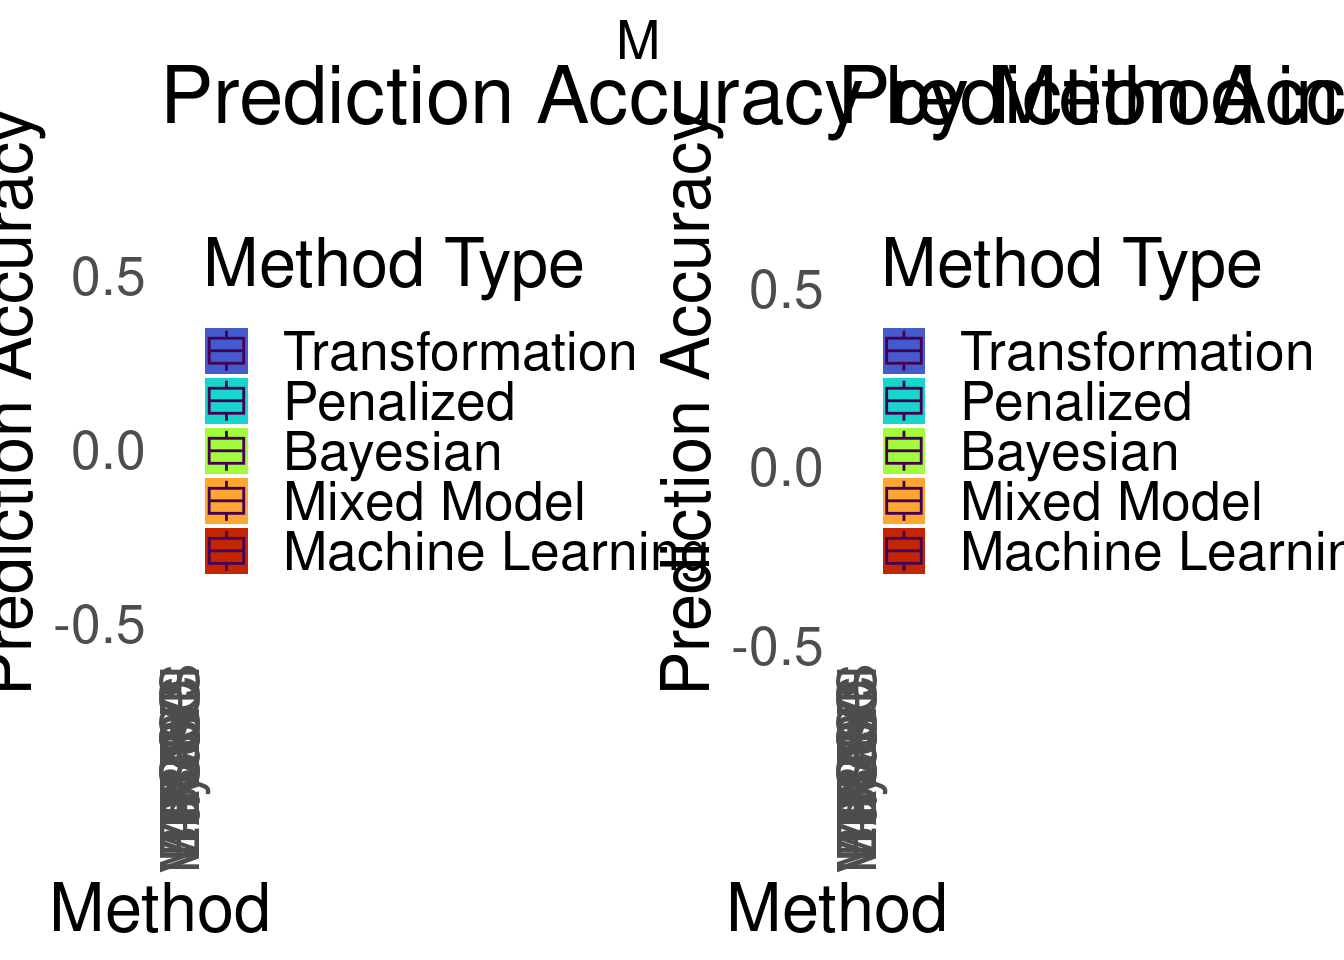
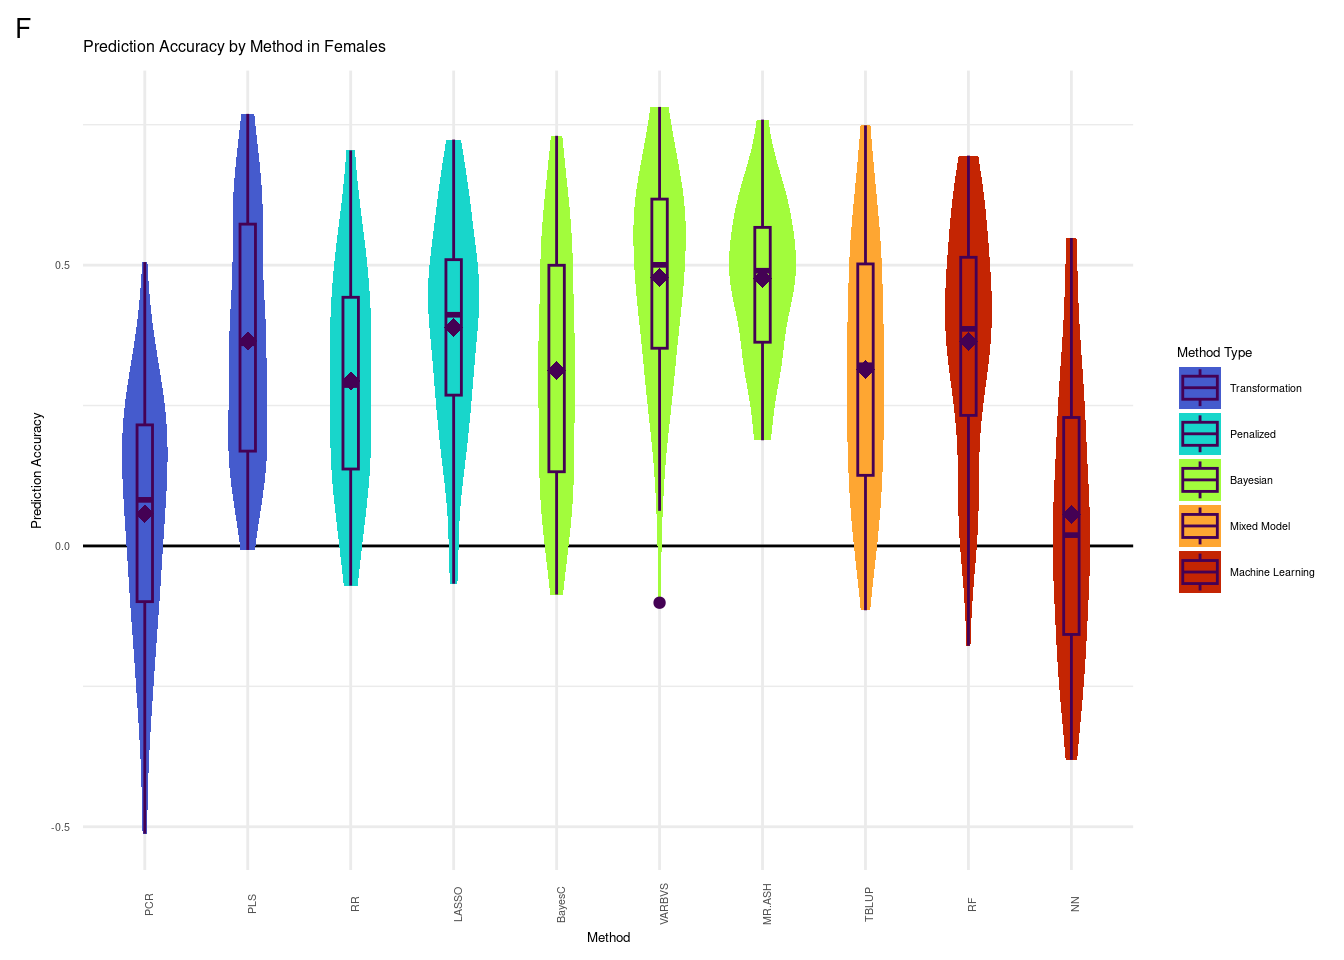
Build site.

Changed region(s): [[0.0, 0.0312, 1.0, 0.9688], [0.4375, 0.9688, 0.4688, 1.0]]

diff --git a/docs/plots.html b/docs/plots.html
@@ -485,16 +485,16 @@ This reproducible <a href="https://rmarkdown.rstudio.com">R Markdown</a> analysi
 <div class="panel panel-default">
 <div class="panel-heading">
 <p class="panel-title">
-<a data-toggle="collapse" data-parent="#workflowr-checks" href="#strongRepositoryversionstrongahrefhttpsgithubcomnklimkodgrpstarvetreeb029cc30c7ac32fbfe55c20e3d7b16fbb29d201ftargetblankb029cc3a"> <span class="glyphicon glyphicon-ok text-success" aria-hidden="true"></span> <strong>Repository version:</strong> <a href="https://github.com/nklimko/dgrp-starve/tree/b029cc30c7ac32fbfe55c20e3d7b16fbb29d201f" target="_blank">b029cc3</a> </a>
+<a data-toggle="collapse" data-parent="#workflowr-checks" href="#strongRepositoryversionstrongahrefhttpsgithubcomnklimkodgrpstarvetree96362fae9bb3ba3de22d8b1527845ea7f9c86935targetblank96362faa"> <span class="glyphicon glyphicon-ok text-success" aria-hidden="true"></span> <strong>Repository version:</strong> <a href="https://github.com/nklimko/dgrp-starve/tree/96362fae9bb3ba3de22d8b1527845ea7f9c86935" target="_blank">96362fa</a> </a>
 </p>
 </div>
[2 lines of base64/hex data omitted]
 <div class="panel-body">
 <p>
 Great! You are using Git for version control. Tracking code development and connecting the code version to the results is critical for reproducibility.
 </p>
 <p>
-The results in this page were generated with repository version <a href="https://github.com/nklimko/dgrp-starve/tree/b029cc30c7ac32fbfe55c20e3d7b16fbb29d201f" target="_blank">b029cc3</a>. See the <em>Past versions</em> tab to see a history of the changes made to the R Markdown and HTML files.
+The results in this page were generated with repository version <a href="https://github.com/nklimko/dgrp-starve/tree/96362fae9bb3ba3de22d8b1527845ea7f9c86935" target="_blank">96362fa</a>. See the <em>Past versions</em> tab to see a history of the changes made to the R Markdown and HTML files.
 </p>
 <p>
 Note that you need to be careful to ensure that all relevant files for the analysis have been committed to Git prior to generating the results (you can use <code>wflow_publish</code> or <code>wflow_git_commit</code>). workflowr only checks the R Markdown file, but you know if there are other scripts or data files that it depends on. Below is the status of the Git repository when the results were generated:
@@ -502,6 +502,7 @@ Note that you need to be careful to ensure that all relevant files for the analy
 <pre><code>
 Ignored files:
     Ignored:    .snakemake/
+    Ignored:    analysis/figure/
     Ignored:    code/OLD/PCA/four-comp.76979.err
     Ignored:    code/OLD/PCA/four-comp.76979.out
     Ignored:    code/OLD/PCA/snpGene.77509.err
@@ -607,6 +608,40 @@ Message
 Rmd
 </td>
 <td>
+<a href="https://github.com/nklimko/dgrp-starve/blob/96362fae9bb3ba3de22d8b1527845ea7f9c86935/analysis/plots.Rmd" target="_blank">96362fa</a>
+</td>
+<td>
+nklimko
+</td>
+<td>
+2024-03-26
+</td>
+<td>
+wflow_publish(“analysis/plots.Rmd”)
+</td>
+</tr>
+<tr>
+<td>
+html
+</td>
+<td>
+<a href="https://rawcdn.githack.com/nklimko/dgrp-starve/458751187b0e287239c3bdc85285fecabd4ec81f/docs/plots.html" target="_blank">4587511</a>
+</td>
+<td>
+nklimko
+</td>
+<td>
+2024-03-26
+</td>
+<td>
+Build site.
+</td>
+</tr>
+<tr>
+<td>
+Rmd
+</td>
+<td>
 <a href="https://github.com/nklimko/dgrp-starve/blob/b029cc30c7ac32fbfe55c20e3d7b16fbb29d201f/analysis/plots.Rmd" target="_blank">b029cc3</a>
 </td>
 <td>
@@ -637,8 +672,8 @@ ggMake2 &lt;- function(data, sex, yint, psize, custom.title, custom.Xlab, custom
     geom_boxplot(color=&#39;#440154FF&#39;, width = 0.15) +
     theme_minimal()+
     theme(axis.text.x = element_text(angle = 90),
-          text=element_text(size=25),
-          plot.tag = element_text(size=20)) +
+          text=element_text(size=5),
+          plot.tag = element_text(size=10)) +
     scale_fill_viridis(begin = scaleStart, end = scaleEnd, discrete=TRUE, option=&#39;turbo&#39;,
                        labels=c(&#39;Transformation&#39;, &#39;Penalized&#39;, &#39;Bayesian&#39;, &#39;Mixed Model&#39;, &#39;Machine Learning&#39;))+#false discrete for number ranked layover, true normally
     stat_summary(fun=mean, color=&#39;#440154FF&#39;, geom=&#39;point&#39;, 
@@ -654,8 +689,8 @@ ggMakeVar &lt;- function(data, sex, yint, psize, custom.title, custom.Xlab, cust
     geom_boxplot(color=&#39;#440154FF&#39;, width = 0.15) +
     theme_minimal()+
     theme(axis.text.x = element_text(angle = 90),
-          text=element_text(size=25),
-          plot.tag = element_text(size=20)) +
+          text=element_text(size=5),
+          plot.tag = element_text(size=10)) +
     scale_fill_viridis(begin = scaleStart, end = scaleEnd, discrete=TRUE, option=&#39;turbo&#39;,
                        labels=c(&#39;Shrinkage&#39;, &#39;Shrinkage + Selection&#39;))+#false discrete for number ranked layover, true normally
     stat_summary(fun=mean, color=&#39;#440154FF&#39;, geom=&#39;point&#39;, 
@@ -668,22 +703,100 @@ gg[[1]] &lt;- ggMake2(dataF, &#39;F&#39;, 0, 1, &#39;Prediction Accuracy by Meth
 
 gg[[2]] &lt;- ggMake2(dataM, &#39;M&#39;, 0, 1, &#39;Prediction Accuracy by Method in Males&#39;, &#39;Method&#39;, &#39;Prediction Accuracy&#39;, 0.1, 0.9)
 
-#gg[[3]] &lt;- 
-gg[[3]] &lt;- ggMakeVar(dataF, &#39;F&#39;, 0, 1, &#39;Prediction Accuracy by Method in Females&#39;, &#39;Method&#39;, &#39;Prediction Accuracy&#39;, 0.2, 0.8)
+gg[[3]] &lt;- ggMakeVar(dataF, &#39;F&#39;, 0, 1, &#39;Prediction Accuracy by Variable Selection in Females&#39;, &#39;Method&#39;, &#39;Prediction Accuracy&#39;, 0.2, 0.8)
 
-gg[[4]] &lt;- ggMakeVar(dataM, &#39;M&#39;, 0, 1, &#39;Prediction Accuracy by Method in Males&#39;, &#39;Method&#39;, &#39;Prediction Accuracy&#39;, 0.2, 0.8)</code></pre>
+gg[[4]] &lt;- ggMakeVar(dataM, &#39;M&#39;, 0, 1, &#39;Prediction Accuracy by Variable Selection in Males&#39;, &#39;Method&#39;, &#39;Prediction Accuracy&#39;, 0.2, 0.8)</code></pre>
 <div id="rundown" class="section level3">
 <h3>Rundown</h3>
 </div>
 <div id="updated-prediction-accuracy-plots" class="section level3">
 <h3>Updated Prediction Accuracy Plots</h3>
-<pre class="r"><code>plot_grid(gg[[1]], gg[[2]], ncol = 2)</code></pre>
+<pre class="r"><code>plot_grid(gg[[1]], ncol = 1)</code></pre>
 <p><img src="figure/plots.Rmd/allData-1.png" width="672" style="display: block; margin: auto;" /></p>
+<p>
+<button type="button" class="btn btn-default btn-xs btn-workflowr btn-workflowr-fig" data-toggle="collapse" data-target="#fig-allData-1">
+Past versions of allData-1.png
+</button>
+</p>
+<div id="fig-allData-1" class="collapse">
+<div class="table-responsive">
+<table class="table table-condensed table-hover">
+<thead>
+<tr>
+<th>
+Version
+</th>
+<th>
+Author
+</th>
+<th>
+Date
+</th>
+</tr>
+</thead>
+<tbody>
+<tr>
+<td>
+<a href="https://github.com/nklimko/dgrp-starve/blob/458751187b0e287239c3bdc85285fecabd4ec81f/docs/figure/plots.Rmd/allData-1.png" target="_blank">4587511</a>
+</td>
+<td>
+nklimko
+</td>
+<td>
+2024-03-26
+</td>
+</tr>
+</tbody>
+</table>
+</div>
+</div>
+<pre class="r"><code>plot_grid(gg[[2]], ncol = 1)</code></pre>
+<p><img src="figure/plots.Rmd/allData-2.png" width="672" style="display: block; margin: auto;" /></p>
+<p>The 2 plots above are updated versions of the original</p>
 </div>
 <div id="variable-selection-marking" class="section level3">
 <h3>Variable Selection Marking</h3>
-<pre class="r"><code>plot_grid(gg[[3]],gg[[4]], ncol=2)</code></pre>
+<pre class="r"><code>plot_grid(gg[[3]], ncol = 1)</code></pre>
 <p><img src="figure/plots.Rmd/fData-1.png" width="672" style="display: block; margin: auto;" /></p>
+<p>
+<button type="button" class="btn btn-default btn-xs btn-workflowr btn-workflowr-fig" data-toggle="collapse" data-target="#fig-fData-1">
+Past versions of fData-1.png
+</button>
+</p>
+<div id="fig-fData-1" class="collapse">
+<div class="table-responsive">
+<table class="table table-condensed table-hover">
+<thead>
+<tr>
+<th>
+Version
+</th>
+<th>
+Author
+</th>
+<th>
+Date
+</th>
+</tr>
+</thead>
+<tbody>
+<tr>
+<td>
+<a href="https://github.com/nklimko/dgrp-starve/blob/458751187b0e287239c3bdc85285fecabd4ec81f/docs/figure/plots.Rmd/fData-1.png" target="_blank">4587511</a>
+</td>
+<td>
+nklimko
+</td>
+<td>
+2024-03-26
+</td>
+</tr>
+</tbody>
+</table>
+</div>
+</div>
+<pre class="r"><code>plot_grid(gg[[4]], ncol = 1)</code></pre>
+<p><img src="figure/plots.Rmd/fData-2.png" width="672" style="display: block; margin: auto;" /></p>
 <p>Variable selection has a positive effect on prediction accuracy in females and a negative effect in males.</p>
 <br>
 <p>
